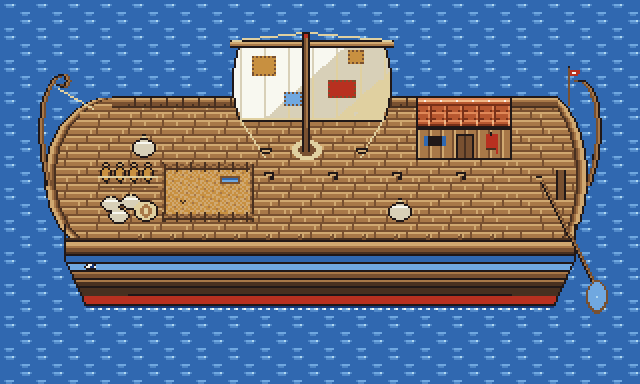
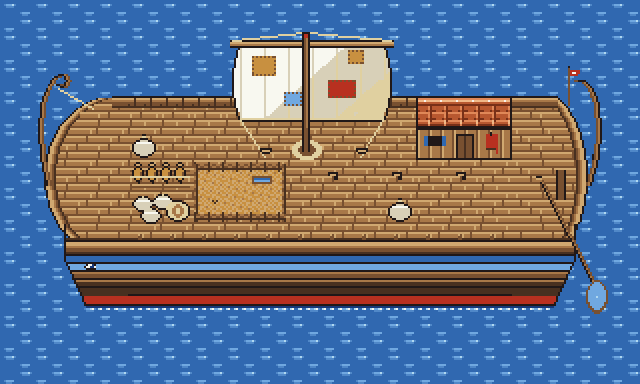
fix(map): free the ferry's bow so its Super Potion can be reached
On a deck this small the people stand in the way: Lamprias and the grain sacks
walled the amphorae's Super Potion in. The bow is re-laid, and the builder now
checks every person and item with the others standing in the way. The test sets
the ferry trainers beaten straight in the save, and its in-game sheet is saved.

Changed region(s): [[0.1562, 0.4062, 0.4688, 0.5938]]

diff --git a/tools/ichor/maps/harbors_deck.py b/tools/ichor/maps/harbors_deck.py
@@ -37,9 +37,9 @@ def compose():
     g.put("stern", 16, 2)
     g.put("sail", 7, 1)
     g.put("deckhouse", 13, 3)
-    g.put("goat_pen", 5, 5)
-    g.put("bow_cargo", 3, 5)
-    g.put("grain_sack", 4, 4)                   # Lamprias's seat
+    g.put("goat_pen", 6, 5)
+    g.put("bow_cargo", 4, 5)
+    g.put("grain_sack", 4, 4)                   # grain for Arkadia, by Lamprias
     g.put("grain_sack", 12, 6)                  # more grain, by the stern
     # the water: surfable and fishable in the game's terms (elevation 1), but not
     # walkable; the map's ON_TRANSITION forbids relics, so no one surfs off a ferry
@@ -60,22 +60,22 @@ def events():
             move="MOVEMENT_TYPE_FACE_RIGHT"),
         obj("LOCALID_GULF_FERRY_ALETHEA", "OBJ_EVENT_GFX_ICHOR_ALETHEA", *ALETHEA, S + "Alethea",
             flag="FLAG_ICHOR_HIDE_ALETHEA_GULF_FERRY", move="MOVEMENT_TYPE_FACE_RIGHT"),
-        obj("LOCALID_GULF_FERRY_GOAT_1", "OBJ_EVENT_GFX_SPECIES(KERAZAP)", 5, 5, S + "Goat",
+        obj("LOCALID_GULF_FERRY_GOAT_1", "OBJ_EVENT_GFX_SPECIES(KERAZAP)", 6, 5, S + "Goat",
             move="MOVEMENT_TYPE_FACE_RIGHT"),
-        obj("LOCALID_GULF_FERRY_GOAT_2", "OBJ_EVENT_GFX_SPECIES(KERAZAP)", 6, 6, S + "Goat",
+        obj("LOCALID_GULF_FERRY_GOAT_2", "OBJ_EVENT_GFX_SPECIES(KERAZAP)", 8, 6, S + "Goat",
             move="MOVEMENT_TYPE_LOOK_AROUND"),
         obj("LOCALID_GULF_FERRY_KEPHISIOS", "OBJ_EVENT_GFX_ICHOR_FISHER", 11, 3, S + "Kephisios",
             trainer=True, sight=1, move="MOVEMENT_TYPE_FACE_UP"),
-        obj("LOCALID_GULF_FERRY_LAMPRIAS", "OBJ_EVENT_GFX_ICHOR_MERCHANT", 3, 4, S + "Lamprias",
+        obj("LOCALID_GULF_FERRY_LAMPRIAS", "OBJ_EVENT_GFX_ICHOR_MERCHANT", 2, 4, S + "Lamprias",
             trainer=True, sight=1, move="MOVEMENT_TYPE_FACE_LEFT"),
-        item_ball("LOCALID_GULF_FERRY_ITEM_SUPER_POTION", 2, 5, "ITEM_SUPER_POTION",
+        item_ball("LOCALID_GULF_FERRY_ITEM_SUPER_POTION", 3, 6, "ITEM_SUPER_POTION",
                   "FLAG_ICHOR_ITEM_GULF_FERRY_SUPER_POTION"),
     ]
     bgs = [
         sign(10, 7, S + "Rail"),
         sign(13, 7, S + "Rail"),
         sign(14, 4, S + "Deckhouse"),
-        hidden(7, 5, "ITEM_HEART_SCALE", "FLAG_ICHOR_HIDDEN_GULF_FERRY_HEART_SCALE"),
+        hidden(8, 5, "ITEM_HEART_SCALE", "FLAG_ICHOR_HIDDEN_GULF_FERRY_HEART_SCALE"),
     ]
     return objects, [], [], bgs
 
@@ -117,6 +117,19 @@ def check(g):
     # fishing: some deck cell looks north over the far rail onto water
     if not any(H.walkable(blocks, x, 3) and (int(blocks[2, x]) >> 12) == 1 for x in range(W)):
         errors.append("Deck: no deck cell faces open water to fish from")
+    # people stand in the way on a deck this small: with every object as an obstacle,
+    # each one still has a free cell beside it to be talked to (or picked up) from
+    ev = H.json.loads((H.ROOT / f"data/maps/{NAME}/map.json").read_text())
+    occupied = {(o["x"], o["y"]) for o in ev["object_events"]}
+    free_reach = H.reachable(blocks, ARRIVAL, blocked=occupied)
+    for o in ev["object_events"]:
+        x, y = o["x"], o["y"]
+        if not any((x + dx, y + dy) in free_reach for dx, dy in ((1, 0), (-1, 0), (0, 1), (0, -1))):
+            errors.append(f"Deck: {o['local_id']} at ({x},{y}) is walled in by the others")
+    for b in ev["bg_events"]:
+        x, y = b["x"], b["y"]
+        if not any((x + dx, y + dy) in free_reach for dx, dy in ((1, 0), (-1, 0), (0, 1), (0, -1))):
+            errors.append(f"Deck: bg event at ({x},{y}) is walled in by the people")
     # nothing walkable reaches the map's edge
     for (x, y) in reach:
         if x in (0, W - 1) or y in (0, HGT - 1):

diff --git a/tools/ichor/maps/harbors.py b/tools/ichor/maps/harbors.py
@@ -448,6 +448,15 @@ def common_checks(g, name, start, extra_blocked=(), unreachable_ok=(), solid_ok=
         near = [(x, y)] + [(x + dx, y + dy) for dx, dy in ((1, 0), (-1, 0), (0, 1), (0, -1))]
         if not any(p in reach for p in near):
             errors.append(f"{name}: object {o['local_id']} at ({x},{y}) is unreachable")
+    # with every person and item ball standing in the way, each one still has a free
+    # cell beside it (people block paths in game; the plain walk above ignores them)
+    free_reach = reachable(blocks, start, blocked=objects | set(extra_blocked))
+    for o in ev["object_events"]:
+        x, y = o["x"], o["y"]
+        if o["local_id"] in unreachable_ok or o["local_id"] in solid_ok:
+            continue
+        if not any((x + dx, y + dy) in free_reach for dx, dy in ((1, 0), (-1, 0), (0, 1), (0, -1))):
+            errors.append(f"{name}: {o['local_id']} at ({x},{y}) is walled in by the others")
     for t in ev["coord_events"]:
         if (t["x"], t["y"]) not in reach:
             errors.append(f"{name}: coord event at ({t['x']},{t['y']}) is unreachable")
